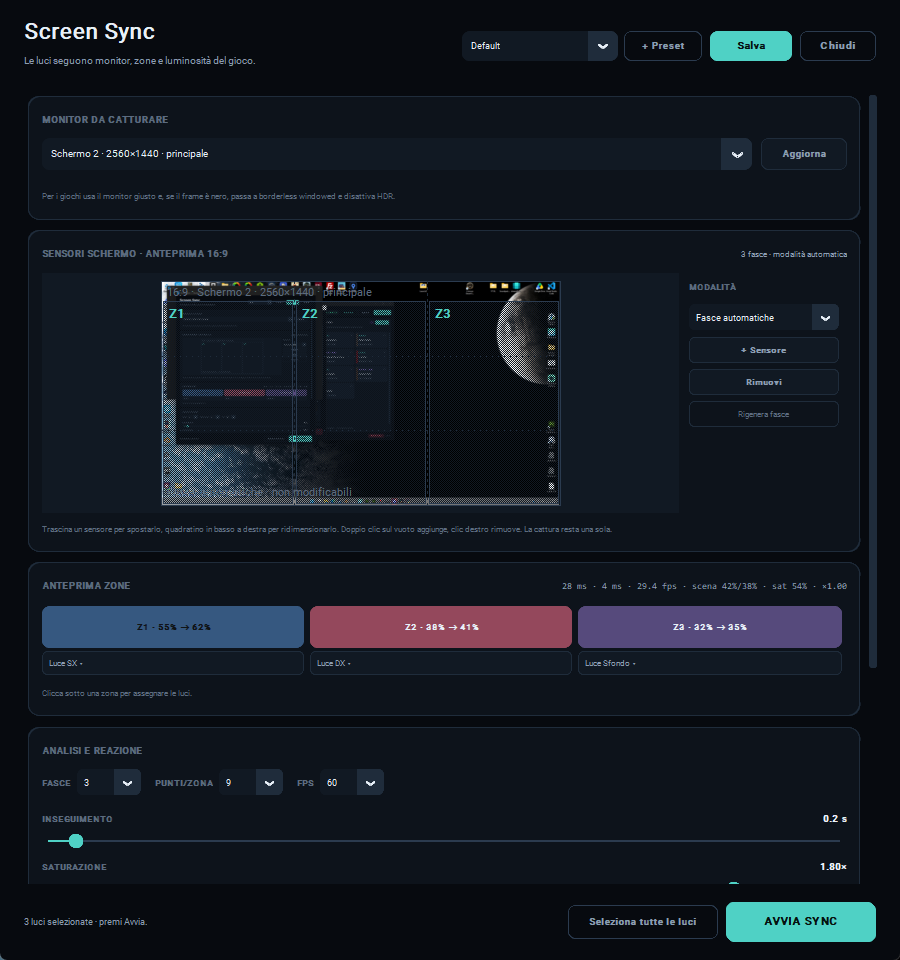
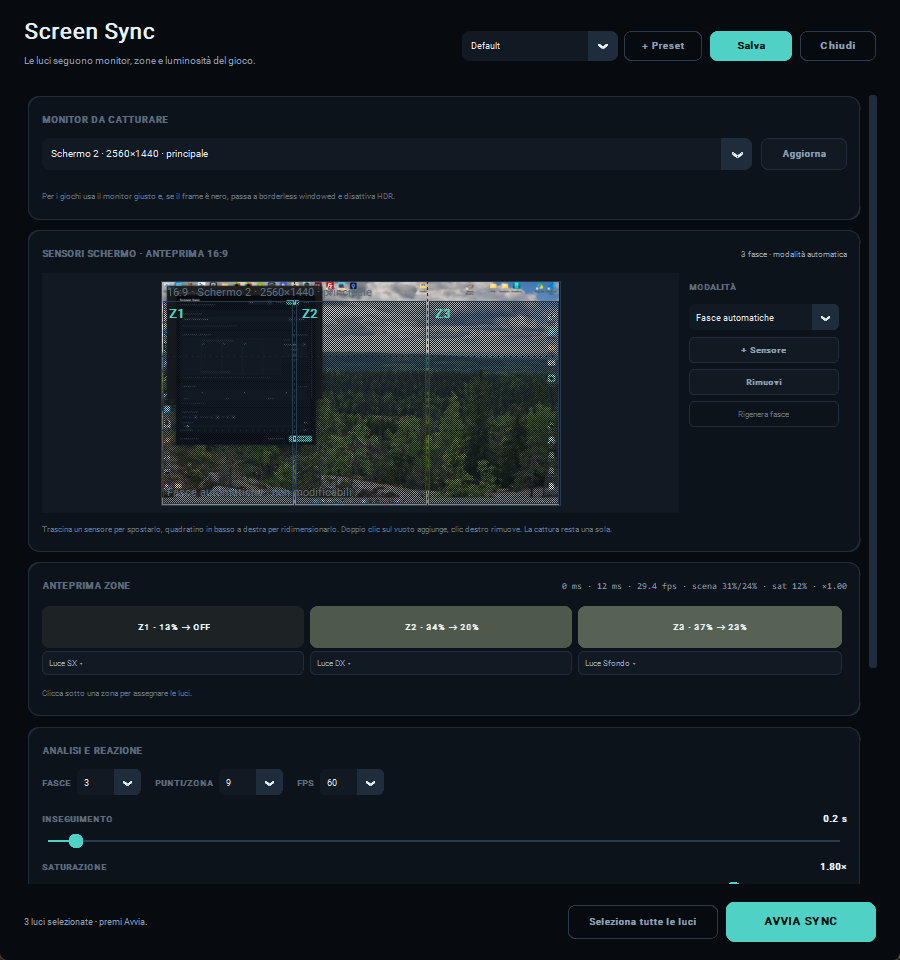
feat(screen): live sensor preview from the captured monitor
- run a one-shot analysis every 2 seconds and update the zone preview swatches without streaming to the bulbs
- fix the white swatch bug: pure-black samples now render near-black
- the sensor editor shows the live monitor with zones overlaid, so placement is visible
- 41 tests, lint/compile OK

Changed region(s): [[0.1867, 0.2812, 0.6222, 0.5312], [0.0311, 0.5938, 0.9333, 0.6875], [0.2489, 0.4062, 0.3111, 0.4375]]

diff --git a/studiolights/ui/screen_sync.py b/studiolights/ui/screen_sync.py
@@ -18,6 +18,7 @@ except Exception:
 from ..screen_sync import (
     SCREEN_PRESETS,
     MonitorInfo,
+    ScreenAnalyzer,
     ScreenSyncConfig,
     SensorZone,
     default_sensor_zones,
@@ -67,6 +68,7 @@ class ScreenSyncWindow(ctk.CTkToplevel):
         self._sensor_thumb: Image.Image | None = None
         self._thumb_photo: ImageTk.PhotoImage | None = None
         self._thumb_job: str | None = None
+        self._editor_frame: Any = None
         self._build()
         self._apply_config(self._config)
         self._refresh_monitors()
@@ -1444,7 +1446,16 @@ class ScreenSyncWindow(ctk.CTkToplevel):
                     )
             except Exception:
                 LOGGER.debug("Sensor thumbnail capture failed.", exc_info=True)
+        try:
+            if self._sensor_thumb is not None:
+                analyzer = ScreenAnalyzer()
+                config = self._read_config()
+                self._editor_frame = analyzer.update(self._sensor_thumb, config, 0.1)
+        except Exception:
+            LOGGER.debug("Editor analysis failed.", exc_info=True)
+            self._editor_frame = None
         self._rebuild_zone_map()
+        self._update_preview()
         self._thumb_job = self.after(2000, self._capture_thumb_main)
 
     def _stop_thumb(self) -> None:
@@ -1477,7 +1488,11 @@ class ScreenSyncWindow(ctk.CTkToplevel):
         self._preview_job = None
         if not self.winfo_exists():
             return
-        frame = self.app.screen_runner.last_frame
+        runner = getattr(self.app, "screen_runner", None)
+        if runner is not None and getattr(self.app, "screen_running", False):
+            frame = runner.last_frame
+        else:
+            frame = self._editor_frame
         if frame is not None:
             for index, box in enumerate(self._preview_boxes):
                 target = frame.zones[index % len(frame.zones)] if frame.zones else frame.global_target
@@ -1485,7 +1500,9 @@ class ScreenSyncWindow(ctk.CTkToplevel):
                     self._config.dark_off
                     and target.brightness <= self._config.dark_off_threshold
                 )
-                sample = target.sample_rgb if target.sample_rgb != (0, 0, 0) else target.rgb
+                sample = target.sample_rgb
+                if sample == (0, 0, 0):
+                    sample = (8, 8, 10)
                 color = f"#{sample[0]:02x}{sample[1]:02x}{sample[2]:02x}"
                 box.configure(fg_color=color)
                 if index < len(self._preview_labels):

diff --git a/studiolights/__init__.py b/studiolights/__init__.py
@@ -1,4 +1,4 @@
 """Studio Lights - local LAN controller for Tuya / Smart Life bulbs."""
 
-__version__ = "1.4.0"
+__version__ = "1.4.1"
 __app_name__ = "Studio Lights"

diff --git a/Audit.md b/Audit.md
@@ -1,4 +1,4 @@
-# Audit tecnico — Studio Lights 1.4.0
+# Audit tecnico — Studio Lights 1.4.1
 
 **Data:** 7 novembre 2026
 **Ambiente di sviluppo:** Windows 11, Python 3.12.10, Tk 8.6
@@ -428,6 +428,15 @@ Smoke test reali su finestra Tk (1360×860), con screenshot verificati:
 ---
 
 ## 12. Changelog
+
+### 1.4.1 - 2026-11-07
+
+- **Anteprima live dei sensori**: l’editor esegue un’analisi one-shot del monitor
+  ogni 2 s e aggiorna i riquadri con i colori che i sensori vedono, senza inviare
+  nulla alle luci. L’etichetta `raw → output` mostra il campione grezzo e l’output.
+- La replica del monitor si aggiorna ora in modo affidabile (cattura sincrona ogni
+  2 s, niente thread Tkinter).
+- Test: **41** (20 Screen Sync).
 
 ### 1.4.0 - 2026-11-07
 
